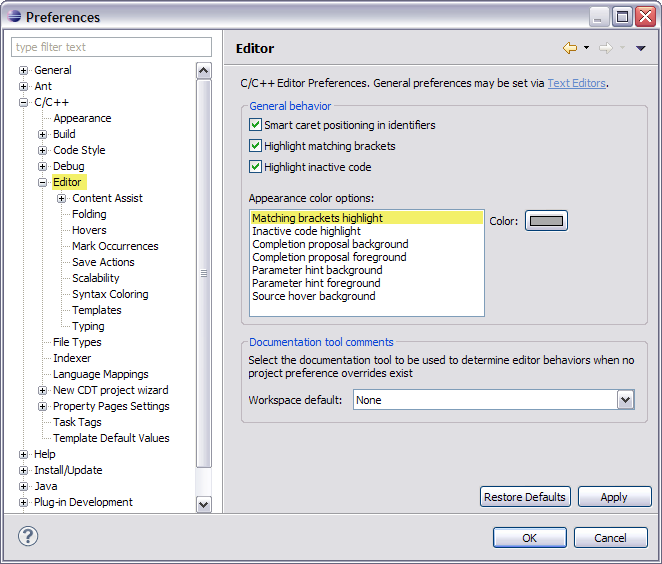
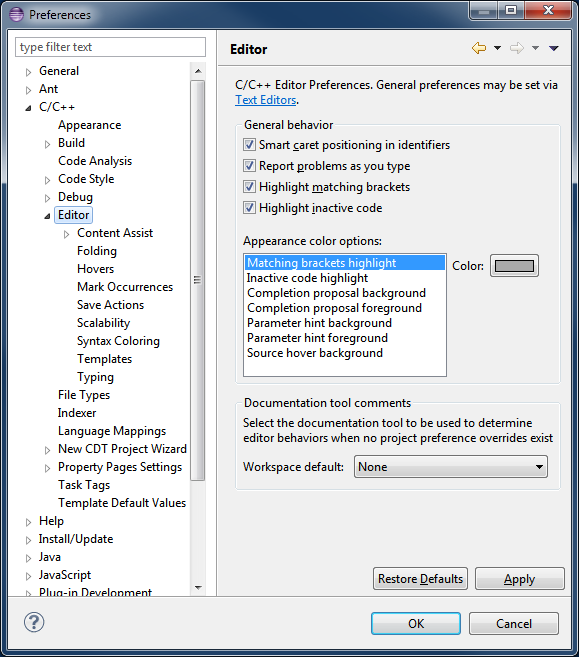
Bug 403263: Update Editor > General preference docs
IP-Clean: Sergey Prigogin <eclipse.sprigogin@gmail.com>

diff --git a/doc/org.eclipse.cdt.doc.user/reference/cdt_u_c_editor_gen.htm b/doc/org.eclipse.cdt.doc.user/reference/cdt_u_c_editor_gen.htm
@@ -1,72 +1,104 @@
-<!DOCTYPE HTML PUBLIC "-//W3C//DTD HTML 4.01//EN" "http://www.w3.org/TR/html4/strict.dtd"> 
+<!DOCTYPE HTML PUBLIC "-//W3C//DTD HTML 4.01//EN" "http://www.w3.org/TR/html4/strict.dtd">
 <html lang="en">
-
 <head>
-	<meta http-equiv="Content-Language" content="en-us">
-	<meta http-equiv="Content-Type" content="text/html; charset=UTF-8">
-	<title>Editor preferences</title>
-	<link rel="stylesheet" type="text/css" href="../help.css">
-	<script language="JavaScript" src="PLUGINS_ROOT/org.eclipse.help/livehelp.js"></script>
+<meta http-equiv="Content-Language" content="en-us">
+<meta http-equiv="Content-Type" content="text/html; charset=utf-8">
+<title>Editor preferences</title>
+<link rel="stylesheet" type="text/css" href="../help.css">
+<script type="text/javascript"
+	src="PLUGINS_ROOT/org.eclipse.help/livehelp.js"></script>
 </head>
 <body>
+	<div role="main">
+		<h1>Editor preferences</h1>
+		<p>
+			Use the <a class="command-link"
+				href='javascript:executeCommand("org.eclipse.ui.window.preferences(preferencePageId=org.eclipse.cdt.ui.preferences.CEditorPreferencePage)")'><img
+				src="PLUGINS_ROOT/org.eclipse.help/command_link.png"
+				alt="command link" />Editor</a> preference panel to control the
+			appearance of text highlighting in C/C++ editors.
+		</p>
+		<p>
+			<img src="../images/editor_general_preferences.png"
+				alt="Editor Preferences Panel">
+		</p>
 
-<div role="main"><h1>Editor preferences</h1>
+		<table class="option" border="1" cellspacing="0">
+			<colgroup>
+				<col width="30%" valign="top">
+				<col width="70%" valign="top">
+			</colgroup>
+			<tbody>
+				<tr style="text-align: center;">
+					<th id="option"><strong>Option</strong></th>
+					<th id="description"><strong>Description</strong></th>
+				</tr>
+				<tr>
+					<td class="option_name" headers="option">Smart caret
+						positioning in identifiers</td>
+					<td headers="description">Treats CamelCase identifiers as
+						being made up of separate words.</td>
+				</tr>
+				<tr>
+					<td class="option_name" headers="option">Report problems as
+						you type</td>
+					<td headers="description">Problems found will be immediately
+						highlighted in the editor.</td>
+				</tr>
+				<tr>
+					<td class="option_name" headers="option">Highlight matching
+						brackets</td>
+					<td headers="description">When the cursor is beside a bracket,
+						the matching bracket is highlighted.</td>
+				</tr>
+				<tr>
+					<td class="option_name" headers="option">Highlight inactive
+						code</td>
+					<td headers="description">Highlights inactive code when the
+						cursor is positioned inside it.</td>
+				</tr>
+				<tr>
+					<td class="option_name" headers="option">Appearance color
+						options</td>
+					<td headers="description">Lists the items for which you can
+						specify a color.</td>
+				</tr>
+				<tr>
+					<td class="option_name" headers="option">Color</td>
+					<td headers="description">Specifies the color in which to
+						display the selected item.</td>
+				</tr>
+				<tr>
+					<td class="option_name" headers="option">Documentation tool
+						comments</td>
+					<td headers="description">Specifies which documentation tool
+						should be used to determine editor presentation and behaviors.
+						This enables editor features such as content-assist, documentation
+						comment generation and syntax highlighting. The particular tool
+						selected here will be used for files that are not associated with
+						a project, or where no project level preference has been set.</td>
+				</tr>
+			</tbody>
+		</table>
 
-<p>Use the <img src="../images/command_link.png" alt="" > <a class="command-link" href='javascript:executeCommand("org.eclipse.ui.window.preferences(preferencePageId=org.eclipse.cdt.ui.preferences.CEditorPreferencePage)")'>Editor</a> preference panel to control the appearance of text highlighting in C/C++ editors.</p>
-<p><img src="../images/editor_general_preferences.png" alt="Editor Preferences Panel"></p>
-
-<table width="600px" cellpadding="4" cellspacing="0" border="1" fgcolor="DDD">
-	<caption><strong>Editor Preference Options</strong></caption>
-	<colgroup>
-		<col width="30%" valign="top" >
-		<col width="70%" valign="top" >
-	</colgroup>
-	<tbody>
-		<tr style="text-align:center;">
-			<th id="option"><strong>Option</strong></th>
-			<th id="description"><strong>Description</strong></th>
-		</tr>
-		<tr>
-			<td headers="option"><strong>Smart caret positioning in identifiers</strong></td>
-			<td headers="description">If enabled, there are additional word boundaries inside identifiers.</td>
-		</tr>
-		<tr>
-			<td headers="option"><strong>Highlight matching brackets</strong></td>
-			<td headers="description">When the cursor is beside a bracket, the matching bracket is highlighted.</td>
-		</tr>
-		<tr>
-			<td headers="option"><strong>Highlight inactive code</strong></td>
-			<td headers="description">Highlights inactive code when the cursor is positioned inside it.</td>
-		</tr>
-		<tr>
-			<td headers="option"><strong>Appearance color options</strong></td>
-			<td headers="description">Lists the items for which you can specify a color.</td>
-		</tr>
-		<tr>
-			<td headers="option"><strong>Color</strong></td>
-			<td headers="description">Specifies the color in which to display the selected item.</td>
-		</tr>
-		<tr>
-			<td headers="option"><strong>Documentation tool comments</strong></td>
-			<td headers="description">Specifies which documentation tool should be used to determine editor presentation and behaviors. This
-			enables editor features such as content-assist, documentation comment generation and syntax highlighting. The particular
-			tool selected here will be used for files that are not associated with a project, or where no project level preference has
-			been set.</td>
-		</tr>
-	</tbody>
-</table>
-
-<p><img src="../images/ngconcepts.gif" ALT="Related concepts" width="143" height="21"> <br>
-<a href="../concepts/cdt_o_code_entry.htm">Coding aids</a></p>
-<p><img src="../images/ngtasks.gif" ALT="Related tasks" width="143" height="21">
-<br>
-<a href="../tasks/cdt_t_cust_cpp_editor.htm">Customizing the C/C++ editor</a></p>
-<p><img src="../images/ngref.gif" ALT="Related reference" width="143" height="21">
-<br>
-<a href="cdt_o_ceditor_pref.htm">C/C++ editor preferences</a></p>
-	<hr>
-<img src="../images/ng00_04a.gif" ALT="IBM Copyright Statement" >
-
-</div></body>
-
+		<p>
+			<img src="../images/ngconcepts.gif" ALT="Related concepts"
+				width="143" height="21"> <br> <a
+				href="../concepts/cdt_o_code_entry.htm">Coding aids</a>
+		</p>
+		<p>
+			<img src="../images/ngtasks.gif" ALT="Related tasks" width="143"
+				height="21"> <br> <a
+				href="../tasks/cdt_t_cust_cpp_editor.htm">Customizing the C/C++
+				editor</a>
+		</p>
+		<p>
+			<img src="../images/ngref.gif" ALT="Related reference" width="143"
+				height="21"> <br> <a href="cdt_o_ceditor_pref.htm">C/C++
+				editor preferences</a>
+		</p>
+		<hr>
+		<img alt="IBM Copyright Statement" src="../images/ng00_04a.gif">
+	</div>
+</body>
 </html>

diff --git a/doc/org.eclipse.cdt.doc.user/help.css b/doc/org.eclipse.cdt.doc.user/help.css
@@ -42,8 +42,8 @@ th	     { font-weight: bold }
 	display: none;
 }
 
-.menu td { vertical-align: top; }
-td.menu_name {font-weight: bold;}
+.menu, .option td { vertical-align: top; }
+td.menu_name, td.option_name {font-weight: bold;}
 
 /* Mike Behm's addition to the style sheet */
 .userinput { font-family: monospace; }
